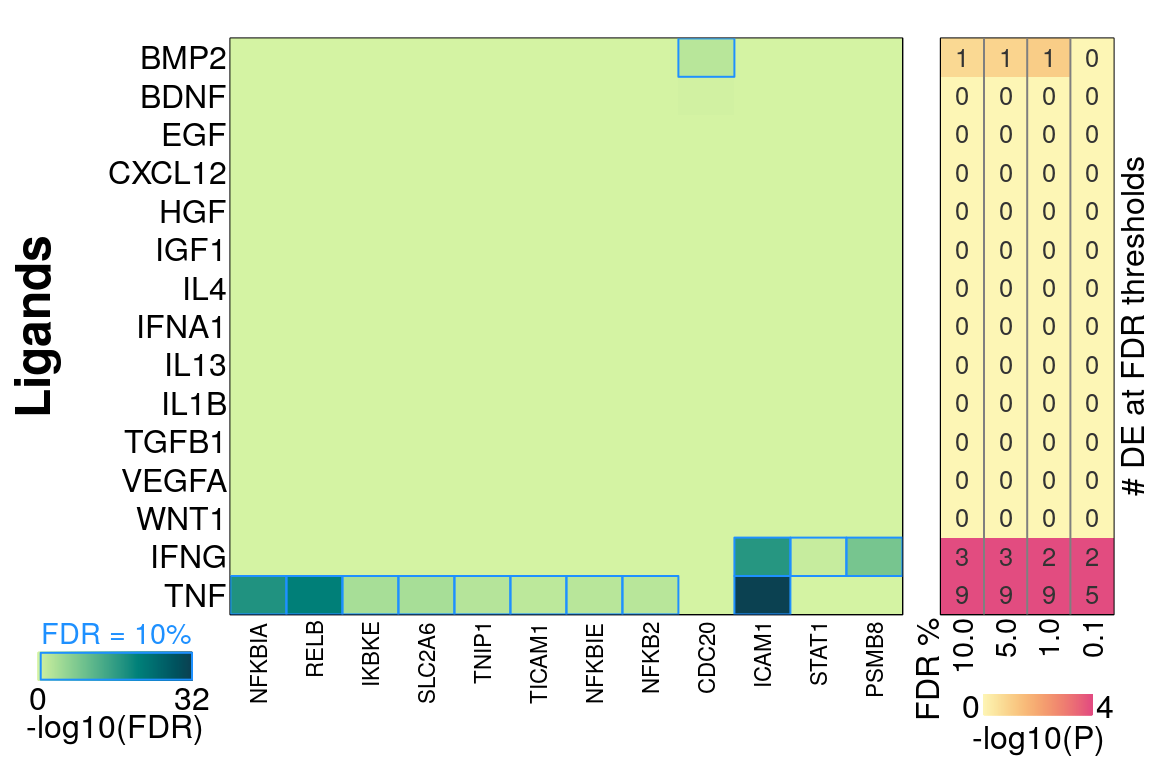
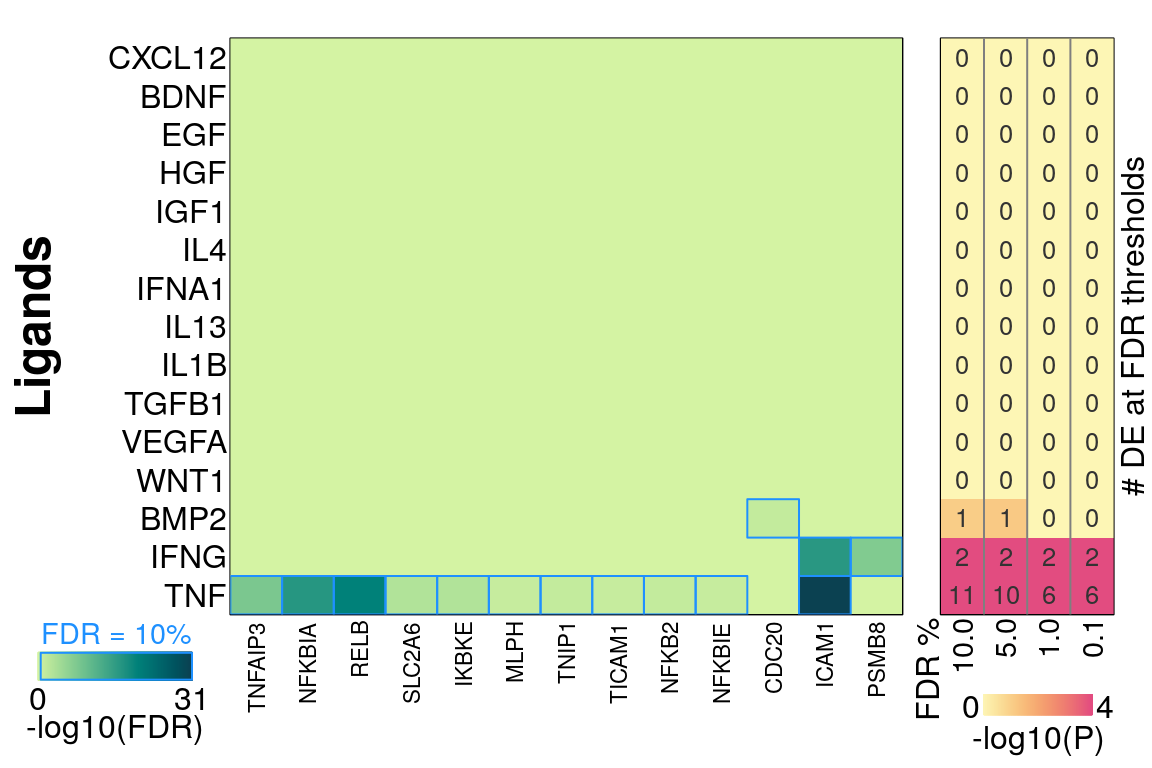
201204 - improved DE overlap figure

diff --git a/docs/NicheNet.html b/docs/NicheNet.html
@@ -402,14 +402,28 @@ $(document).ready(function () {
 <h2>Differential gene expression</h2>
 <p>Differentially expressed genes were determined by logFC &gt;= 1 and FDR &lt;= 0.1 (as in Browaeys <em>et al.</em>, 2020). This figure shows number of DE genes overlapping across all datasets testing the same ligand vs. datasets testing the same ligand in the same cell type vs. datasets from the same accession number (and same ligand / cell type). P-values for overlap (y-axis) were determined after determining probability of overlapping DE genes by chance through bootstrapping.</p>
 <p><img src="NicheNet_files/figure-html/diffexp_boxplot-1.png" width="864" /></p>
+<p><img src="NicheNet_files/figure-html/diffexp_boxplot_v2-1.png" width="864" /></p>
 <p>Connectivity Map data from the same set of ligands assayed in multiple experiments from the NicheNet datasets.</p>
 <p><img src="NicheNet_files/figure-html/CMap_DE-1.png" width="576" /></p>
-<p><img src="NicheNet_files/figure-html/DE_dot_BMP2-1.png" width="307.2" /></p>
-<p><img src="NicheNet_files/figure-html/DE_dot_IFNG-1.png" width="384" /></p>
-<p><img src="NicheNet_files/figure-html/DE_dot_TNF-1.png" width="412.8" /></p>
-<p><img src="NicheNet_files/figure-html/DE_dot_TGFB1-1.png" width="384" /></p>
-<p><img src="NicheNet_files/figure-html/DE_dot_IFNA1-1.png" width="268.8" /></p>
-<p><img src="NicheNet_files/figure-html/DE_dot_IL1B-1.png" width="307.2" /></p>
+<p>
+  <img src="NicheNet_files/figure-html/DE_dot_BMP2-1.png" width="307.2" />
+  <img src="NicheNet_files/figure-html/DE_dot_IFNG-1.png" width="384" />
+</p>
+<p><strong>BMP2</strong> (left) had CDC20 significantly DE across cell lines in the CMap data.<br />
+<strong>IFNG</strong> (right) had ICAM1, STAT1, and PSMB8 significantly DE across cell lines in the CMap data.</p>
+<p>
+  <img src="NicheNet_files/figure-html/DE_dot_TNF-1.png" width="403.2" />
+  <img src="NicheNet_files/figure-html/DE_dot_TGFB1-1.png" width="384" /> 
+</p>
+<p><strong>TNF</strong> (left) had ICAM1, NFKBIA, RELB, TNFAIP3, IKBKE, SLC2A6, TNIP1, TICAM1, NFKBIE, and NFKB2 significantly DE across cell lines in the CMap data.<br />
+<strong>TGFB1</strong> (right) had no significantly DE genes across all cell lines in CMap, but the average logFC of TGFBR3 was higher than expected by chance across all cell types in these datasets.</p>
+<p>
+  <img src="NicheNet_files/figure-html/DE_dot_IFNA1-1.png" width="268.8" />
+  <img src="NicheNet_files/figure-html/DE_dot_IL1B-1.png" width="307.2" /> 
+</p>
+<p><strong>INFA1</strong> (left) had no significantly DE genes across all cell lines in CMap, but the average logFC of a number of genes was higher than expected by chance across all cell types in these datasets.<br />
+<strong>IL1B</strong> (right) had no significantly DE genes across all cell lines in CMap, but the average logFC of a number of genes was higher than expected by chance across all cell types in these datasets.</p>
+<hr />
 </div>
 </div>
 <div id="after-removing-time-series-data" class="section level1">
@@ -421,6 +435,7 @@ $(document).ready(function () {
 <div id="differential-gene-expression-1" class="section level2">
 <h2>Differential gene expression</h2>
 <p><img src="NicheNet_files/figure-html/noTS_diffexp_boxplot-1.png" width="864" /></p>
+<p><img src="NicheNet_files/figure-html/noTS_diffexp_boxplot_v2-1.png" width="864" /></p>
 </div>
 </div>
 
